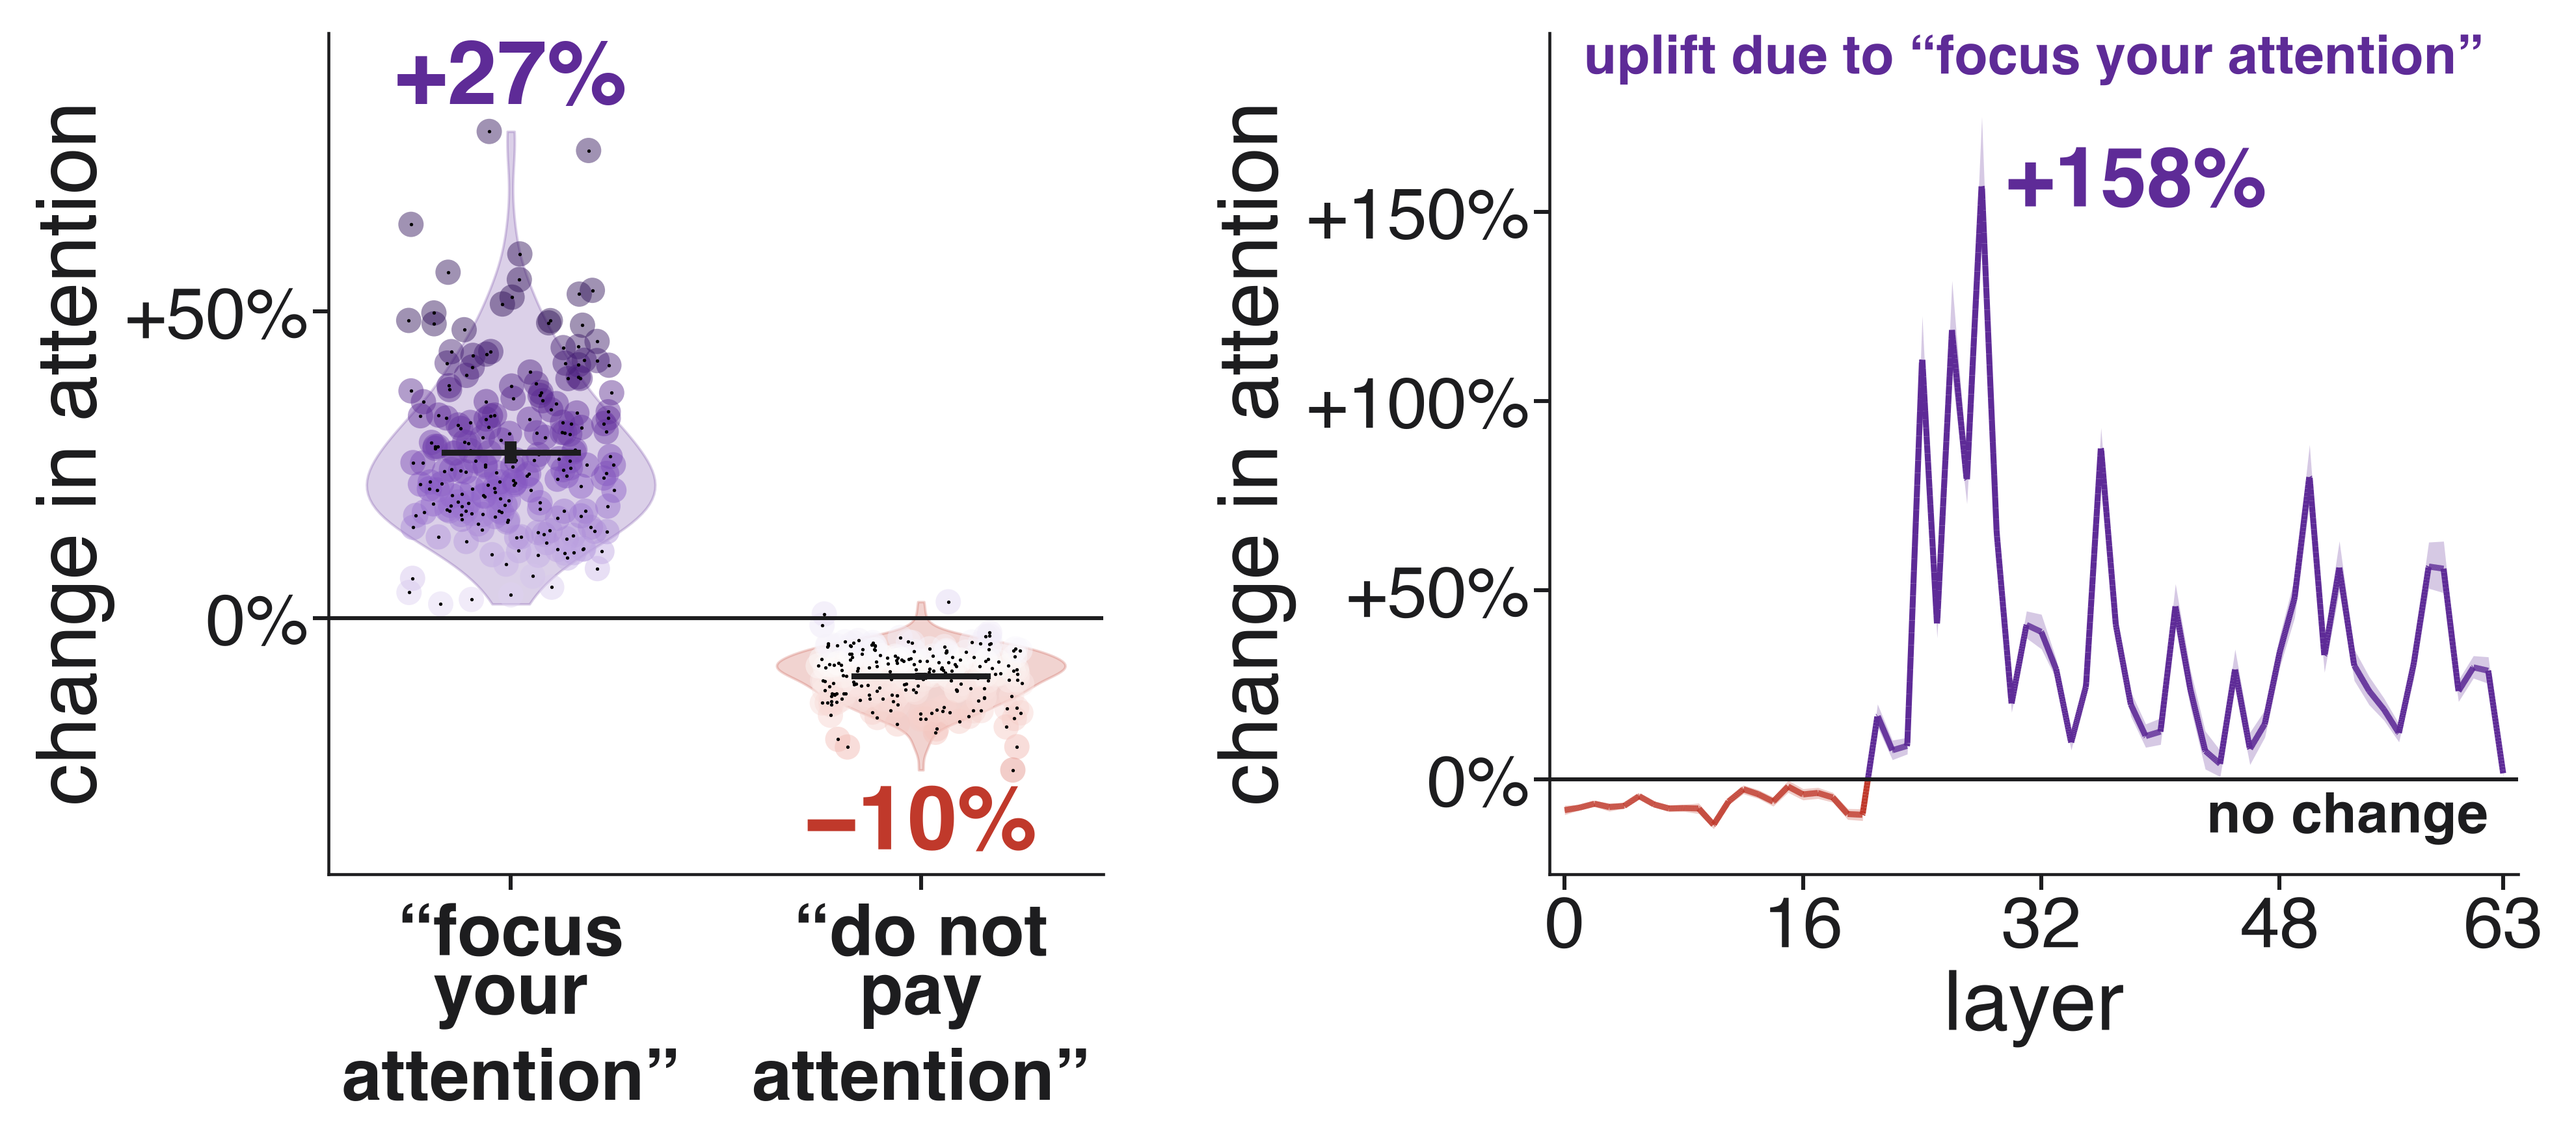
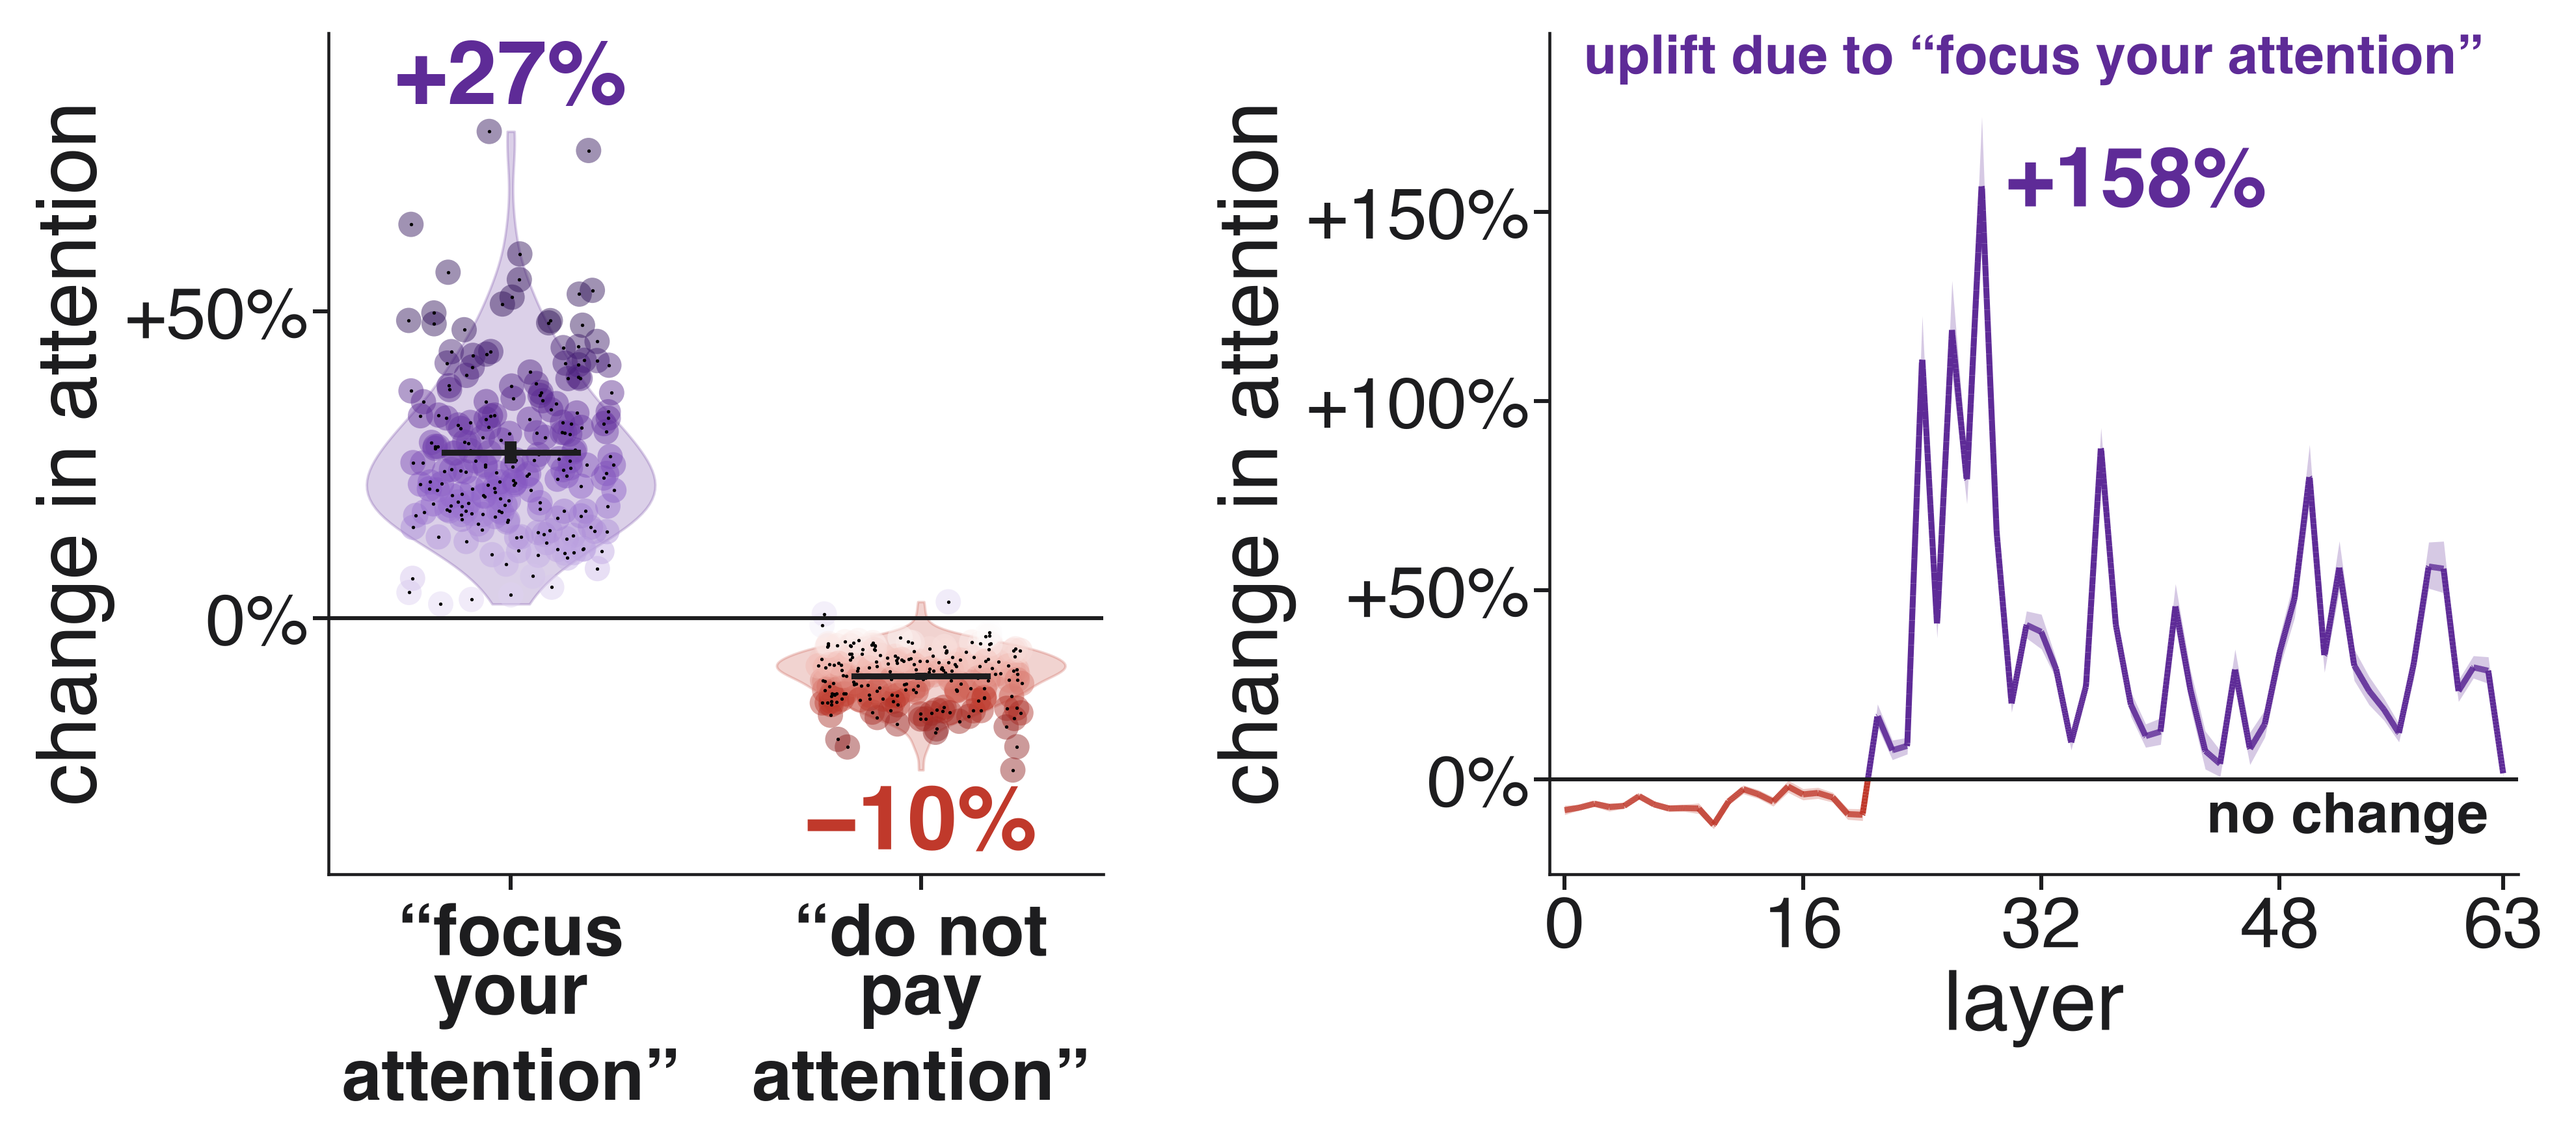
combo: palette, minus signs

Changed region(s): [[0.3106, 0.5625, 0.4038, 0.6875]]

diff --git a/figures/combo.py b/figures/combo.py
@@ -70,7 +70,7 @@ for m,name,cond in [("qwen3-32b","“focus your\nattention”","focus"),("qwen3-
 plt.rcParams.update({"font.size":56})
 fig,(a,b)=plt.subplots(1,2,figsize=(36,16),gridspec_kw=dict(width_ratios=[1.2,1.5]))
 cmap=colors.LinearSegmentedColormap.from_list("hy",["#BFD3EE","#5B8BD0","#2B4FA8","#4B2A8F","#2A0F4F"])
-allz=np.concatenate([res[n]["z"] for n in res]); vm=np.percentile(np.abs(allz),97); DN=dnorm(-vm,vm)
+allz=np.concatenate([res[n]["z"] for n in res]); vm=np.percentile(np.abs(allz),97); DN=dnorm(np.percentile(allz,1),vm)
 rng=np.random.default_rng(1)
 for p,name in enumerate(res):
     r=res[name]; z=r["z"]
@@ -93,7 +93,7 @@ b.set_xlim(-1,64); b.set_xticks([0,16,32,48,63]); b.set_xlabel("layer",fontsize=
 a.set_ylim(allz.min()-17,allz.max()+16); b.set_ylim(min(lo.min(),0)-12,hi.max()+22)
 for ax in (a,b):
     ax.axhline(0,color=INK,lw=4,zorder=4)
-    ax.yaxis.set_major_formatter(matplotlib.ticker.FuncFormatter(lambda v,_: f"{v:+.0f}%" if v else "0%"))
+    ax.yaxis.set_major_formatter(matplotlib.ticker.FuncFormatter(lambda v,_: f"{v:+.0f}%".replace("-","\u2212") if v else "0%"))
     for s_ in ["top","right"]: ax.spines[s_].set_visible(False)
     ax.spines["left"].set_linewidth(3); ax.spines["bottom"].set_linewidth(3); ax.tick_params(width=4,length=16,labelsize=72)
 a.set_ylabel("change in attention",fontsize=84,labelpad=10); b.set_ylabel("change in attention",fontsize=84,labelpad=10)
